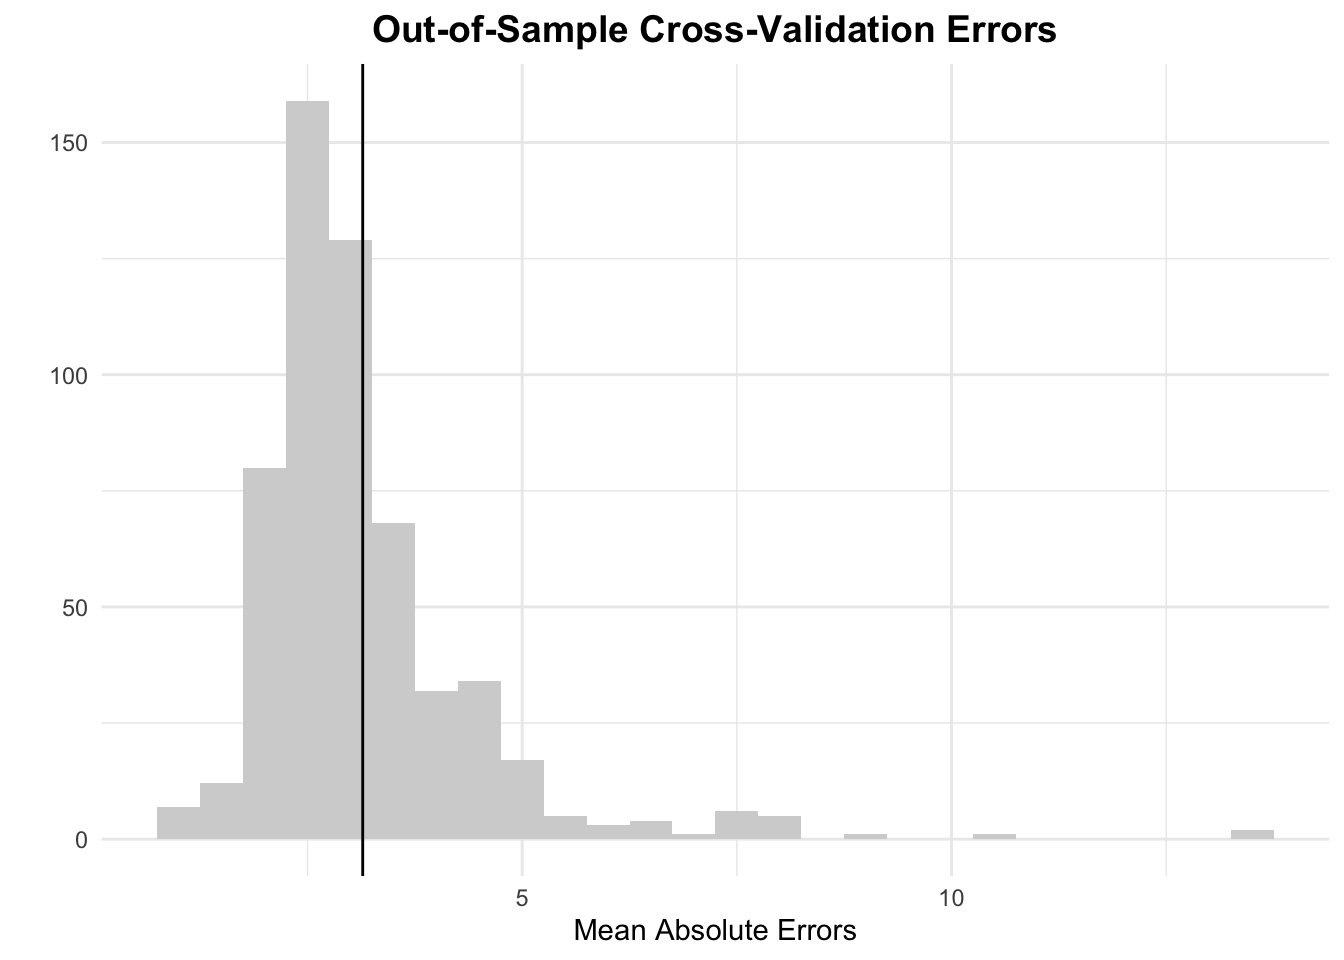
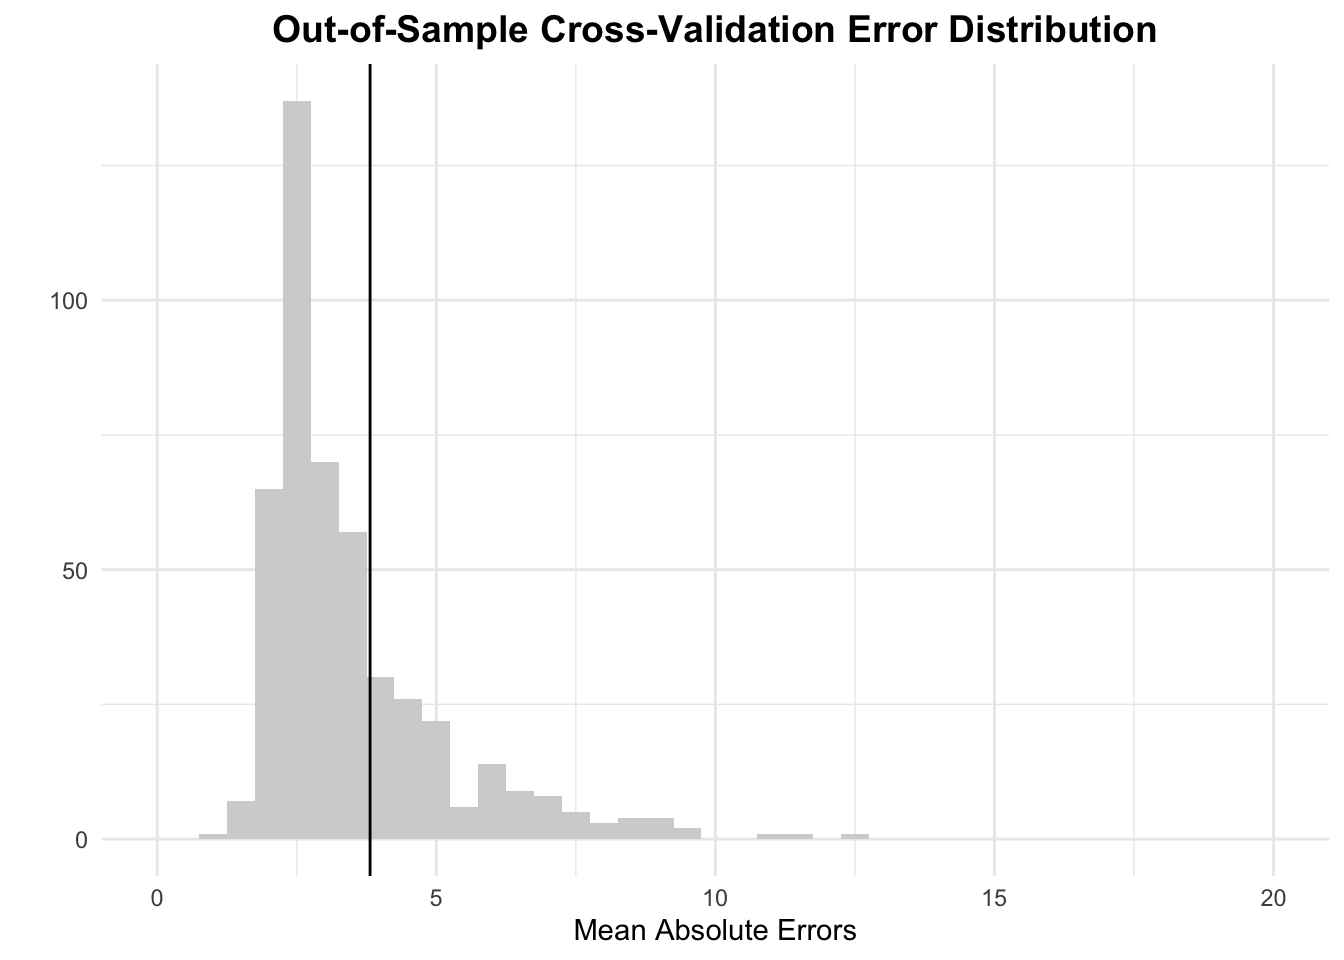
National model analysis done

diff --git a/public/post/2024/11/04/week-9-final-2024-election-prediction/index.html b/public/post/2024/11/04/week-9-final-2024-election-prediction/index.html
@@ -44,6 +44,7 @@
 <li><em><strong>Incumbency</strong></em>: If the candidate is the incumbent president or not (in addition to being from the incumbent party).</li>
 </ul>
 <p>Thus together, the equation for my model is:</p>
+<p><strong>National Two-Party Vote Share for the Inc. Party = <code>\(\boldsymbol{\beta}_0 + \boldsymbol{\beta}_1 \text{ Sept. National Polling Average} + \boldsymbol{\beta}_2 \text{ Oct. National Polling Average} + \boldsymbol{\beta}_3 \text{ Q2 GDP Growth} + \boldsymbol{\beta}_4 \text{ Incumbency} + \boldsymbol{\epsilon}\)</code></strong></p>
 <p><strong>National Two-Party Vote Share for the Inc. Party = β<del>0</del> + β<del>1</del>Sept. National Polling Average + β<del>2</del>Oct. National Polling Average + β<del>3</del>Q2 GDP Growth + β<del>4</del>Incumbency + ε</strong></p>
 <h3 id="justification-of-national-model">Justification of National Model</h3>
 <p><strong>October Polling Average</strong>:
@@ -121,27 +122,31 @@ Although literature and expert opinions on the role of incumbency are split on w
 <p><strong>Quarter 2 GDP Growth</strong>: For every 1% increase in Quarter 2 GDP growth, there is an associated 0.45-point increase in the incumbent party candidate&rsquo;s November national two-party vote share. With a p-value of 0.025, this is the second of the two statistically significant IV&rsquo;s in my model at a 95% confidence interval.</p>
 <p><strong>Incumbency</strong>: For every 1% increase in &ldquo;incumbency&rdquo; there is an associated 1.00-point increase in the incumbent party candidate&rsquo;s national two-party vote share. This may not initially make much sense, but consider that, of course, there is no such thing as a &ldquo;1% increase in incumbency&rdquo; as this is a binary variable. With a p-value of 0.456, this too is not statistically significant at a 95% confidence interval, but just like the September polling average, that does not mean it does not add value to my model.</p>
 <h3 id="validation">Validation</h3>
-<ul>
-<li>out of sample validation</li>
-</ul>
+<p>For in-sample error, my model&rsquo;s R-squared value of 0.89 means that 89% of changes in national two-party popular vote share is explained by my model, representing a pretty strong correlation. This correlation holds strong when adjusted, with an adjusted R-squared value of 0.84.</p>
+<p>To understand my out-of-sample error, I performed 1,000 repetitions of random sampling, with each sample using 7 elections, which is slightly over half of the 13 total in the time frame of my data set. The average mean out-of-sample error, as shown by the black line in the graph below, is ~3.81%, a reasonably low number.</p>
 <img src="https://johnkulow.github.io/elections-blog/post/2024/11/04/week-9-final-2024-election-prediction/index_files/figure-html/nat model validation graph-1.png" width="672" />
+<p>The above histogram shows the distribution of these mean errors. I have limited the x-axis of this graph to a reasonable range, so there are one or two outlier data points not shown above, though they are incorporated into the calculation of the average mean absolute error. I have restricted the x-axis so that we can better see that this graph is right-skewed. While there certainly are some outlier data points where my model failed to accurately predict the election, those are far outnumbered by instances of my model accurately capturing the state of the race.</p>
+<h3 id="final-national-two-party-vote-prediction">Final National Two-Party Vote Prediction</h3>
+<p>Given this model, when we apply this result to the 2024 election between Vice President Harris and Former President Trump, we get the following prediction:</p>
 <table>
 <thead>
 <tr>
-<th style="text-align:right">Harris Vote Share</th>
-<th style="text-align:right">Lower Bound</th>
-<th style="text-align:right">Upper Bound</th>
+<th style="text-align:center">Harris Vote Share</th>
+<th style="text-align:center">Lower Bound</th>
+<th style="text-align:center">Upper Bound</th>
 </tr>
 </thead>
 <tbody>
 <tr>
-<td style="text-align:right">51.82711</td>
-<td style="text-align:right">46.55055</td>
-<td style="text-align:right">57.10367</td>
+<td style="text-align:center">51.82711</td>
+<td style="text-align:center">46.55055</td>
+<td style="text-align:center">57.10367</td>
 </tr>
 </tbody>
 </table>
-<p>** INSERT PRETTIER GRAPHIC **</p>
+<p>As can be seen, my model predicts that Vice President Harris will win the national popular vote with <strong>51.83%</strong> of the vote, a <strong>3.66% margin</strong> over Former President Trump and his <strong>48.17%</strong> share. There is still a relatively large range of possibilities considering today&rsquo;s polarized political climate, with the upper bound of Harris&rsquo; vote share with a 95% confidence interval being 57.1% and the lower bound being 46.55%, meaning Harris could win by up to a 14.2% margin or lose by up to a 6.9% margin. Thus, to get an even better sense of the state of the race, it is important to now turn to the state level.</p>
+<h2 id="state-level-model-and-predictions">State-Level Model and Predictions</h2>
+<h3 id="equation-and-variables-1">Equation and Variables</h3>
 <table style="border-collapse:collapse; border:none;">
 <caption style="font-weight: bold; text-align:left;">State Model Regression Table</caption>
 <tr>
@@ -441,9 +446,6 @@ Although literature and expert opinions on the role of incumbency are split on w
 </tr>
 </table>
 <img src="https://johnkulow.github.io/elections-blog/post/2024/11/04/week-9-final-2024-election-prediction/index_files/figure-html/combined state pred map-1.png" width="672" />
-<h3 id="final-national-two-party-vote-prediction">Final National Two-Party Vote Prediction</h3>
-<h2 id="state-level-model-and-predictions">State-Level Model and Predictions</h2>
-<h3 id="equation-and-variables-1">Equation and Variables</h3>
 <ul>
 <li>Do for both state-level models</li>
 </ul>

diff --git a/content/post/2024-11-04-week-9-final-2024-election-prediction/index.md b/content/post/2024-11-04-week-9-final-2024-election-prediction/index.md
@@ -26,8 +26,9 @@ Let's begin with my national popular vote prediction. This model is built to pre
 
 Thus together, the equation for my model is:
 
-**National Two-Party Vote Share for the Inc. Party = β~0~ + β~1~Sept. National Polling Average + β~2~Oct. National Polling Average + β~3~Q2 GDP Growth + β~4~Incumbency + ε**
+**National Two-Party Vote Share for the Inc. Party = `\(\boldsymbol{\beta}_0 + \boldsymbol{\beta}_1 \text{ Sept. National Polling Average} + \boldsymbol{\beta}_2 \text{ Oct. National Polling Average} + \boldsymbol{\beta}_3 \text{ Q2 GDP Growth} + \boldsymbol{\beta}_4 \text{ Incumbency} + \boldsymbol{\epsilon}\)`**
 
+**National Two-Party Vote Share for the Inc. Party = β~0~ + β~1~Sept. National Polling Average + β~2~Oct. National Polling Average + β~3~Q2 GDP Growth + β~4~Incumbency + ε**
 
 
 ### Justification of National Model
@@ -44,6 +45,7 @@ As always, the economy is front and center in politics in 2024. Voters care abou
 
 **Incumbency**:
 Although literature and expert opinions on the role of incumbency are split on whether it has an affect and, if so, whether such an effect is positive or negative. Some claim that the President's superior ability to fund-raise, to gain free media attention, and to otherwise wield the powers of the Presidency to the advantage of them or of their constituents/potential supporters gives the incumbent president an advantage going into reelection. Others claim that voters can blame the president for any problems facing the country. Others believe any such impact one way or the other is minute, irrelevant, or self-balanced. I believe that the role of incumbency does matter, which is why I have included it in my model, and that we need to look no further than President Biden's dramatic exit from the 2024 race this past summer to see the importance of whether an incumbent president, for all their faults or strengths, runs for reelection.
+
 
 ### Regression Table
 I based my model off of data spanning from 1968, when polling data from 538 begins, to the 2016 election. I made the decision to exclude the 2020 election because the economic data from Quarter 2 is such an outlier due to the Covid pandemic that it substantively, and in my opinion unrepresentatively, changed my model when included. Thus, based off of the aforementioned four independent variables and the 13 elections spanning 1968-2016, below is the regression table for my model:
@@ -124,22 +126,37 @@ In terms of how we interpret the above coefficients for each of the four IV's:
 
 **Incumbency**: For every 1% increase in "incumbency" there is an associated 1.00-point increase in the incumbent party candidate's national two-party vote share. This may not initially make much sense, but consider that, of course, there is no such thing as a "1% increase in incumbency" as this is a binary variable. With a p-value of 0.456, this too is not statistically significant at a 95% confidence interval, but just like the September polling average, that does not mean it does not add value to my model.
 
-### Validation
-- out of sample validation
 
+### Validation
+For in-sample error, my model's R-squared value of 0.89 means that 89% of changes in national two-party popular vote share is explained by my model, representing a pretty strong correlation. This correlation holds strong when adjusted, with an adjusted R-squared value of 0.84.
+
+To understand my out-of-sample error, I performed 1,000 repetitions of random sampling, with each sample using 7 elections, which is slightly over half of the 13 total in the time frame of my data set. The average mean out-of-sample error, as shown by the black line in the graph below, is ~3.81%, a reasonably low number. 
 
 
 
 <img src="{{< blogdown/postref >}}index_files/figure-html/nat model validation graph-1.png" width="672" />
 
+The above histogram shows the distribution of these mean errors. I have limited the x-axis of this graph to a reasonable range, so there are one or two outlier data points not shown above, though they are incorporated into the calculation of the average mean absolute error. I have restricted the x-axis so that we can better see that this graph is right-skewed. While there certainly are some outlier data points where my model failed to accurately predict the election, those are far outnumbered by instances of my model accurately capturing the state of the race.
+
+
+### Final National Two-Party Vote Prediction
+
+Given this model, when we apply this result to the 2024 election between Vice President Harris and Former President Trump, we get the following prediction:
 
 
 
-| Harris Vote Share| Lower Bound| Upper Bound|
-|-----------------:|-----------:|-----------:|
-|          51.82711|    46.55055|    57.10367|
 
-** INSERT PRETTIER GRAPHIC **
+| Harris Vote Share | Lower Bound | Upper Bound |
+|:-----------------:|:-----------:|:-----------:|
+|     51.82711      |  46.55055   |  57.10367   |
+
+As can be seen, my model predicts that Vice President Harris will win the national popular vote with **51.83%** of the vote, a **3.66% margin** over Former President Trump and his **48.17%** share. There is still a relatively large range of possibilities considering today's polarized political climate, with the upper bound of Harris' vote share with a 95% confidence interval being 57.1% and the lower bound being 46.55%, meaning Harris could win by up to a 14.2% margin or lose by up to a 6.9% margin. Thus, to get an even better sense of the state of the race, it is important to now turn to the state level.
+
+
+
+## State-Level Model and Predictions
+### Equation and Variables
+
 
 
 
@@ -467,17 +484,6 @@ In terms of how we interpret the above coefficients for each of the four IV's:
 
 
 
-
-
-
-
-
-### Final National Two-Party Vote Prediction
-
-
-
-## State-Level Model and Predictions
-### Equation and Variables
 - Do for both state-level models
 
 ### Justrification of Model
